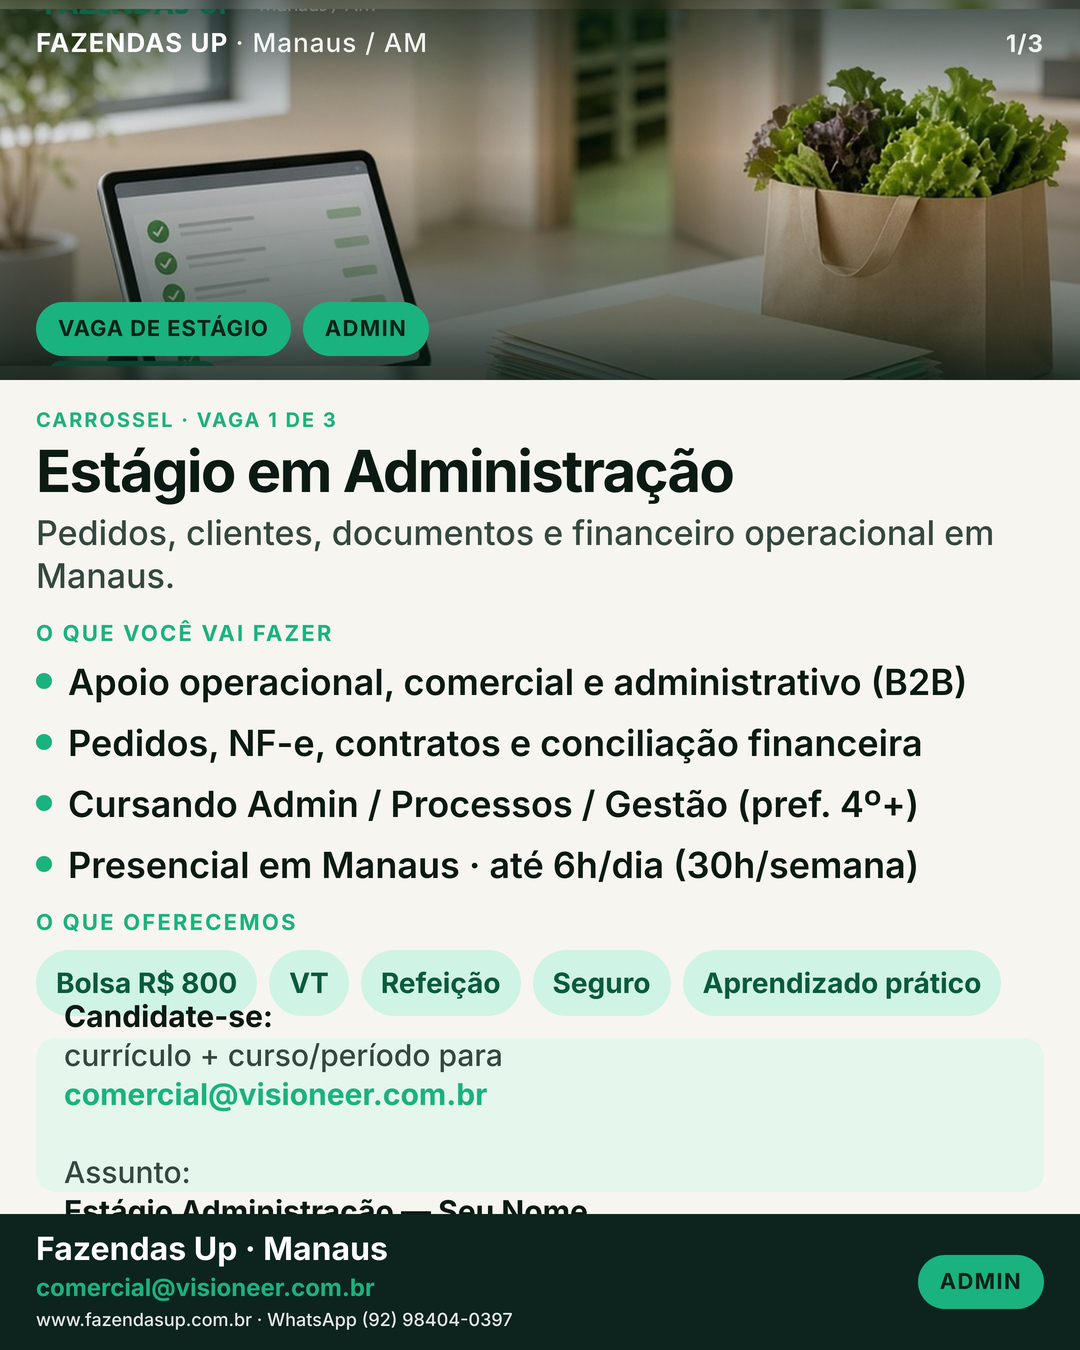
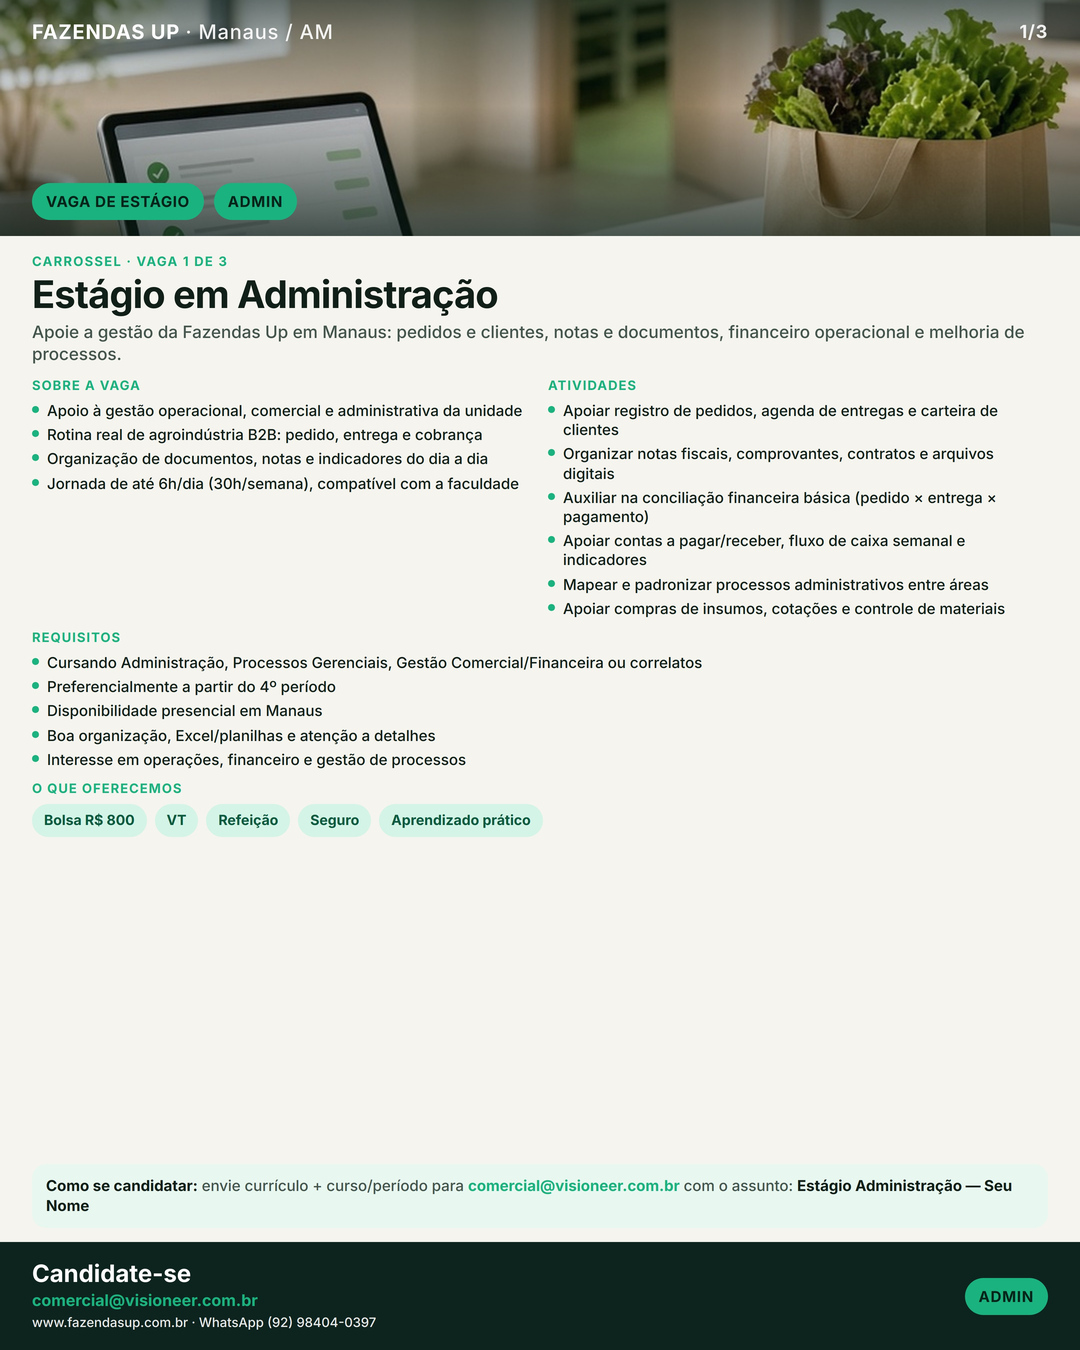
fix: restaurar texto completo das vagas sem sobreposição
Volta sobre/atividades/requisitos/benefícios originais nas 3
artes 4:5, com checagem de overflow para não cortar o CTA.

diff --git a/marketing/instagram-estagios/README.md b/marketing/instagram-estagios/README.md
@@ -2,11 +2,11 @@
 
 **Um único post** no feed, **3 slides** (uma página por vaga), **1080 × 1350**.
 
+Conteúdo completo: sobre, atividades, requisitos, benefícios e candidatura.
+
 1. `01-admin.jpg`
 2. `02-cultivo.jpg`
 3. `03-qualidade.jpg`
-
-Tipografia grande para leitura no celular. Detalhes extras podem ir na legenda do post.
 
 Baixar: `/instagram-estagios/` no preview Pages.
 
